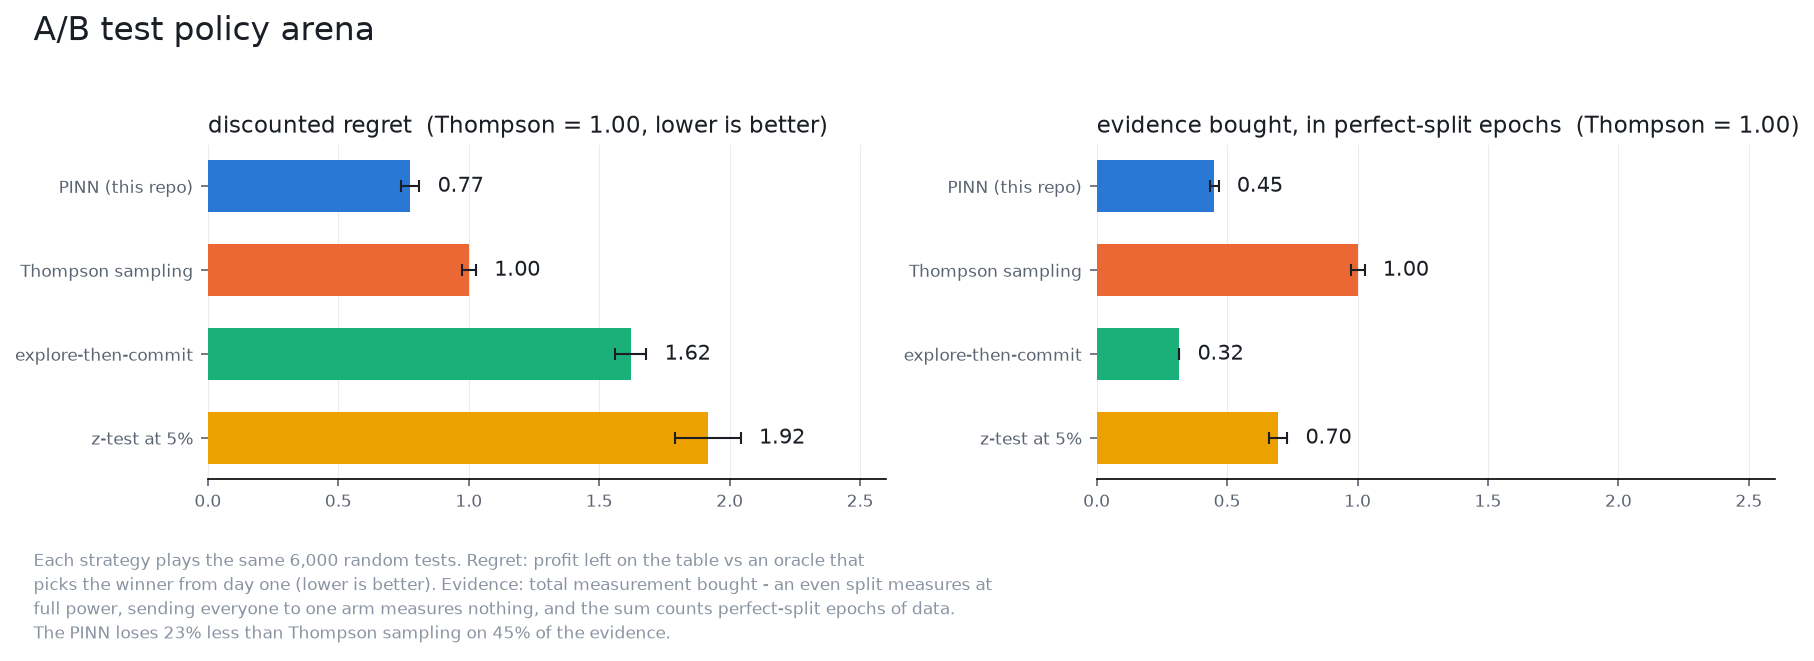
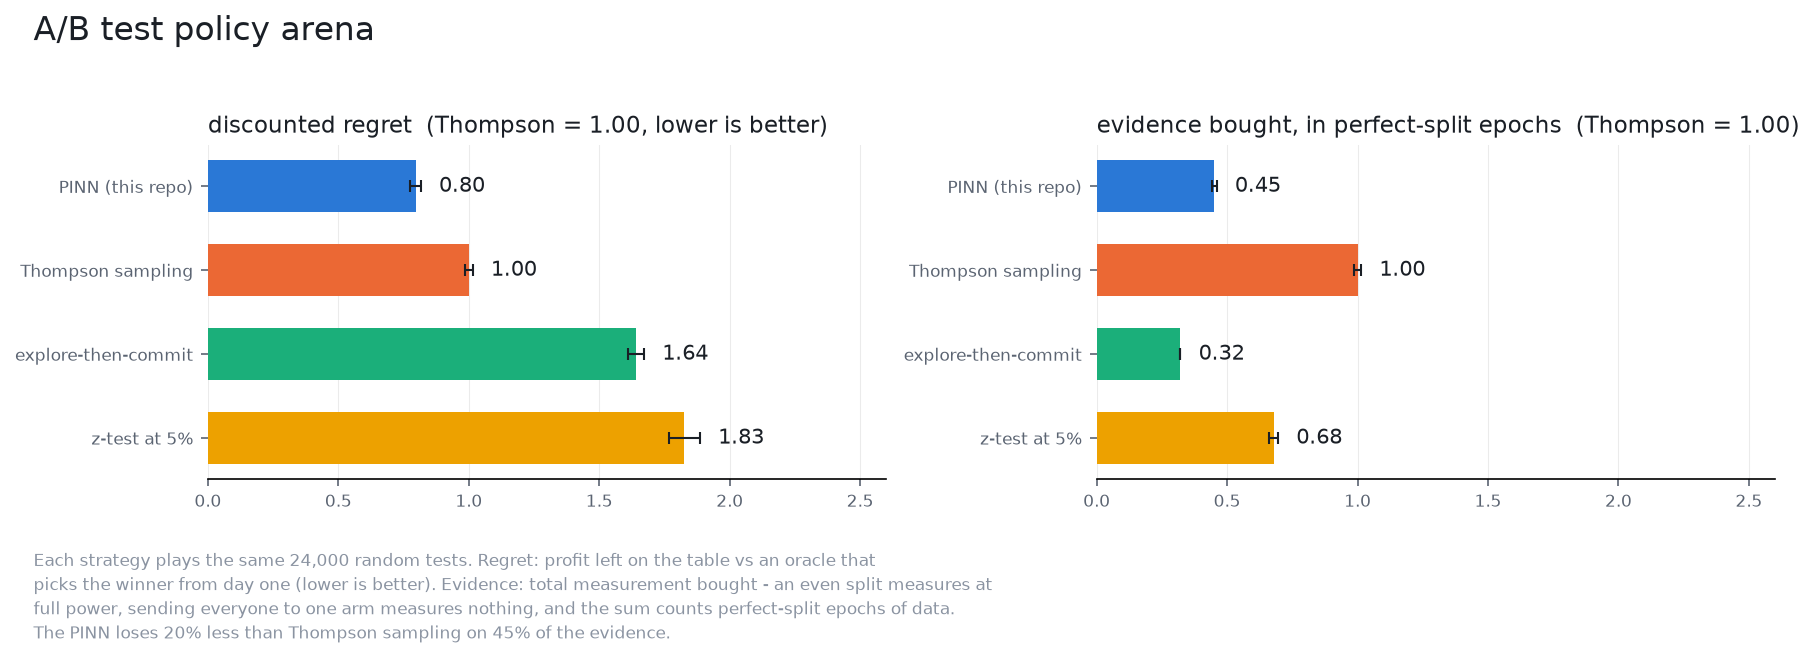
three_arm_v2 at its high-water mark, and the 4x arena sweeps
Tagged three-arm-v2-final. The pairwise ansatz is removed in the next
commit; this is the state it is removed from, so the code and the numbers
survive at the tag.

v2's last form was CLAUDE.md's ansatz in premium space, u = f(p_ab, p_ac,
p_bc) + correction, with f linear and zero-init. It was the right fix for
the earlier response-space version, where the linear head sat inside the
relu-squared gate and the 98% relationship could not survive the transform.
It was not enough.

Trained 50k iterations at 2,853 trainable parameters, the head learned
-0.812 / -0.362 / +0.002 where the value fit is +0.923 / +0.476 / +0.102 --
the opposite sign. The linear term averages -0.374 and the correction +0.460
to cancel it, so the premia act as a subtraction the correction has to undo.
Two large opposing terms fit a residual more easily than one term that has
to be right, and nothing forbade it: dropping the architectural bound cost
u < 0 on 4.37% of states (worst -2.02) and u > nu2 on 5.49% (worst ratio
1.4e28). Its residual is therefore not comparable to v1's -- 3.96e-4 is the
error of a provable premium, 1.07e-1 is the error of something that is not
one.

Arena sweeps re-run at 4x reps to halve the intervals, after the 6k/4k pair
put the two-arm and three-arm margins 0.055 +/- 0.044 apart, which is one
draw away from nothing. At 24k/16k they are 0.796 +/- 0.013 and 0.820 +/-
0.017, a gap of 0.024 +/- 0.022. The baselines moved far more than the PINN
[…]

diff --git a/README.md b/README.md
@@ -16,14 +16,12 @@ Yes, it even beats Thompson Sampling for a simple AB test. Oh! If you have been 
 
 | policy | regret (Thompson = 1.00) | wrong commits | commits | evidence (Thompson = 1.00) |
 |---|---|---|---|---|
-| PINN (this repo) | **0.77** | 7.0% | 99.0% | **0.45** |
+| PINN (this repo) | **0.80** | 6.9% | 99.0% | **0.45** |
 | Thompson sampling | 1.00 | 0.0% | never | 1.00 |
-| explore-then-commit | 2.09 | 13.6% | 100% | 0.32 |
-| z-test at 5% | 2.47 | 10.6% | 93.0% | 0.70 |
+| explore-then-commit | 1.64 | 13.3% | 100% | 0.32 |
+| z-test at 5% | 1.83 | 10.6% | 93.5% | 0.68 |
 
-Better than TS in terms of "gains left on the table" (regret) and with the added benefit that _it actually stops_. It also needs to explore less in total: TS, even though it can deliver the goods, is known to be quite the over-curious explorer and the neural network fixes that — it knows when measuring stops paying. That is the whole trick: 23% less regret on 45% of the evidence.
-
-The net doing this has **402 parameters**. Full tables, including the three-arm arena, live in [kb/arena_results.md](kb/arena_results.md).
+Quite a lot better than TS in terms of "gains left on the table" (regret) and with the added benefit that _it actually stops_. It also needs to explore less in total. TS, even though it can deliver the goods, is known to be quite the over-curious explorer and the neural network fixes that. And the network that does that is _tiny_, at only 402 parameters. 
 
 ## Beyond just AB
 
@@ -31,16 +29,18 @@ The net doing this has **402 parameters**. Full tables, including the three-arm 
 
 ![The learned three-arm allocation policy](docs/policy_atlas.png)
 
-This "Gaussian blur"-thingy vanishing with information shows the net being more confident the more information you pass to it. It beats Thompson here too, and buys even less evidence to do it — though the regret margin is a little narrower than in the two-arm case, so the extra arm costs the net something:
+This "Gaussian blur"-thingy vanishing with information shows the net being more confident the more information you pass to it. And its performance is similar to the AB test:
 
 ![A/B/C arena results](docs/arena_three_arm.png)
 
 | policy | regret (Thompson = 1.00) | wrong commits | commits | evidence (Thompson = 1.00) |
 |---|---|---|---|---|
-| PINN (this repo) | **0.83** | 12.3% | 99.4% | **0.35** |
+| PINN (this repo) | **0.82** | 11.6% | 99.4% | **0.36** |
 | Thompson sampling | 1.00 | 0.0% | never | 1.00 |
-| elimination at 5% (generalized z-test) | 1.55 | 12.3% | 90.7% | 0.69 |
-| explore-then-commit | 1.80 | 21.6% | 100% | 0.29 |
+| elimination at 5% (generalized z-test) | 1.51 | 11.8% | 90.4% | 0.71 |
+| explore-then-commit | 1.78 | 21.1% | 100% | 0.29 |
+
+Again the net out-performs TS and again it does so by buying way less information. This time, however, the network we have trained is not tiny. For three arms, things already start getting complicated. After trying many topologies, the one that stuck had three layers and around 10k parameter; a network the size of the AB one woefully underperformed.
 
 What about ABCD? Man, the equations are *gnarly* for ABC already and should just be impossible for ABCD, but if you want to build it, you are welcome to contribute with a PR. There is already some support and some tips about how to do it in
 [kb/learnings.md](kb/learnings.md). However, be warned that PINNs do not scale to even hundreds of input dimensions and the number of features you have to feed the network is quadratic.
@@ -56,7 +56,7 @@ A quick map of the repo, for the curious:
 - `pinn/problems/two_arm` and `pinn/problems/three_arm`: the trainable models,
   samplers, and PDE losses (dimensionless, wedge-quotiented by the problems'
   exact symmetries). The math lives in `kb/two_arm.md` and
-  `kb/three_arm.md`; the transferable methIt'sod in `kb/learnings.md`.
+  `kb/three_arm.md`; the transferable method in `kb/learnings.md`.
 - `pinn/problems/two_arm_drift` and `pinn/problems/three_arm_drift`: the same
   two problems in a world where the effects themselves drift, so yesterday's
   evidence decays and a committed decision can become wrong on its own. One
